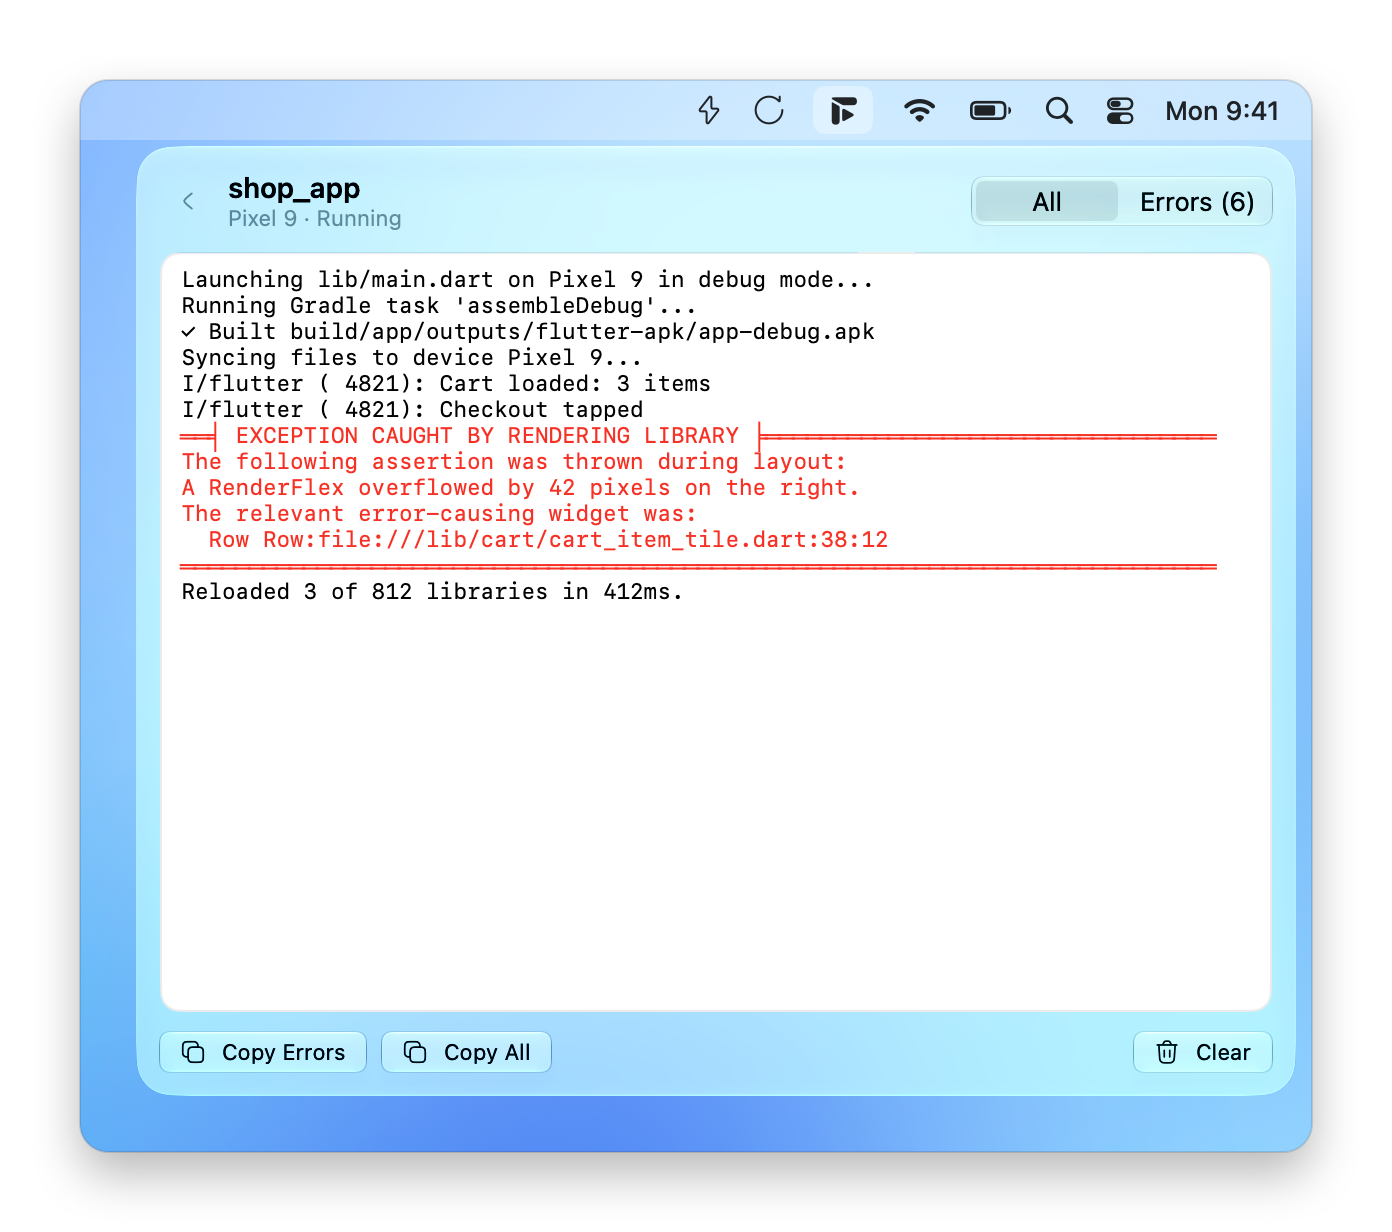
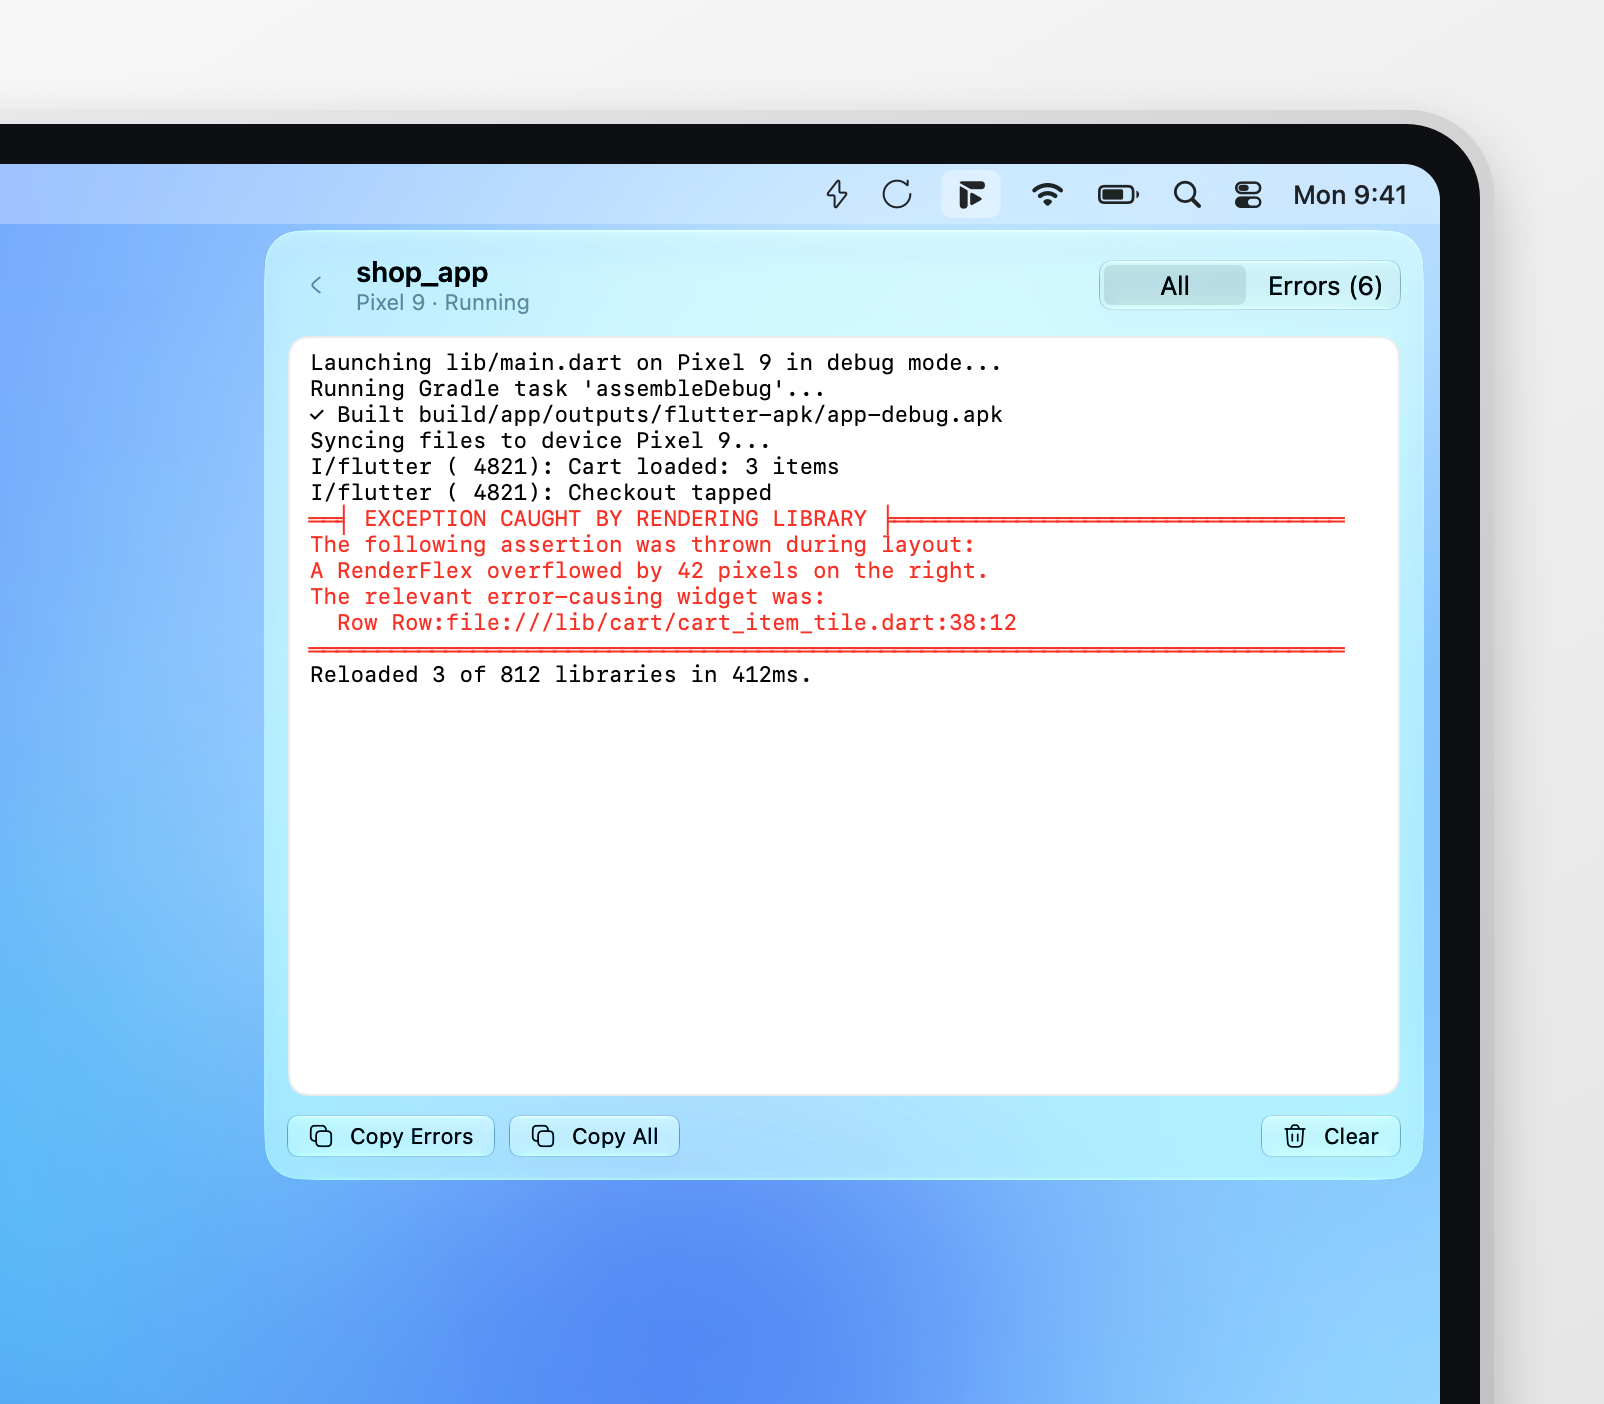
docs: show screenshots in a matching laptop corner mockup

diff --git a/scripts/frame-screenshot.swift b/scripts/frame-screenshot.swift
@@ -1,40 +1,61 @@
-// Turns a raw capture into a floating "screen": rounded corners, hairline border, soft drop shadow,
-// on a transparent canvas.   swift scripts/frame-screenshot.swift in.png out.png
+// Places a capture in the top-right corner of a laptop: light studio background, aluminium lid edge,
+// black bezel, then the screen. The screen runs off the left and bottom edges, like a cropped product
+// shot.   swift scripts/frame-screenshot.swift in.png out.png
 import AppKit
 
 let args = CommandLine.arguments
 let src = NSImage(contentsOfFile: args[1])!
 let rep = src.representations.first!
-let w = CGFloat(rep.pixelsWide), h = CGFloat(rep.pixelsHigh)
-let pad: CGFloat = 80, radius: CGFloat = 28
-let canvas = NSSize(width: w + pad * 2, height: h + pad * 2)
+let sw = CGFloat(rep.pixelsWide), sh = CGFloat(rep.pixelsHigh)
+
+let studio: CGFloat = 110      // background visible above and right of the lid
+let rim: CGFloat = 14          // aluminium edge
+let bezel: CGFloat = 40        // black glass around the screen
+let canvas = NSSize(width: sw + bezel + rim + studio, height: sh + bezel + rim + studio)
 
 let out = NSBitmapImageRep(bitmapDataPlanes: nil, pixelsWide: Int(canvas.width), pixelsHigh: Int(canvas.height),
                            bitsPerSample: 8, samplesPerPixel: 4, hasAlpha: true, isPlanar: false,
                            colorSpaceName: .deviceRGB, bytesPerRow: 0, bitsPerPixel: 0)!
 NSGraphicsContext.saveGraphicsState()
 NSGraphicsContext.current = NSGraphicsContext(bitmapImageRep: out)
-let screen = NSRect(x: pad, y: pad, width: w, height: h)
-let shape = NSBezierPath(roundedRect: screen, xRadius: radius, yRadius: radius)
+let all = NSRect(origin: .zero, size: canvas)
 
+// Studio background.
+NSGradient(colors: [NSColor(white: 0.97, alpha: 1), NSColor(white: 0.90, alpha: 1)])!.draw(in: all, angle: -60)
+
+// Shapes extend past the left and bottom edges so only the top-right corner shows.
+func corner(inset: CGFloat, radius: CGFloat) -> NSBezierPath {
+    let r = NSRect(x: -400, y: -400, width: canvas.width - studio - inset + 400, height: canvas.height - studio - inset + 400)
+    return NSBezierPath(roundedRect: r, xRadius: radius, yRadius: radius)
+}
+
+// Lid with a soft shadow, a light aluminium edge and a thin highlight.
+let lid = corner(inset: 0, radius: 86)
 let shadow = NSShadow()
-shadow.shadowColor = NSColor.black.withAlphaComponent(0.28)
-shadow.shadowBlurRadius = 50
-shadow.shadowOffset = NSSize(width: 0, height: -22)
+shadow.shadowColor = NSColor.black.withAlphaComponent(0.22)
+shadow.shadowBlurRadius = 60
+shadow.shadowOffset = NSSize(width: 0, height: -24)
 NSGraphicsContext.saveGraphicsState()
 shadow.set()
-NSColor.white.setFill()
-shape.fill()
+NSColor(white: 0.80, alpha: 1).setFill()
+lid.fill()
 NSGraphicsContext.restoreGraphicsState()
+NSGradient(colors: [NSColor(white: 0.93, alpha: 1), NSColor(white: 0.74, alpha: 1)])!.draw(in: lid, angle: -45)
 
+// Bezel.
+let glass = corner(inset: rim, radius: 74)
+NSColor(calibratedRed: 0.05, green: 0.05, blue: 0.06, alpha: 1).setFill()
+glass.fill()
+
+// Screen.
+let screenRect = NSRect(x: canvas.width - studio - rim - bezel - sw, y: canvas.height - studio - rim - bezel - sh,
+                        width: sw, height: sh)
+let screenShape = NSBezierPath(roundedRect: NSRect(x: screenRect.minX - 400, y: screenRect.minY - 400,
+                                                   width: sw + 400, height: sh + 400), xRadius: 36, yRadius: 36)
 NSGraphicsContext.saveGraphicsState()
-shape.addClip()
-src.draw(in: screen, from: .zero, operation: .copy, fraction: 1)
+screenShape.addClip()
+src.draw(in: screenRect, from: .zero, operation: .copy, fraction: 1)
 NSGraphicsContext.restoreGraphicsState()
-
-NSColor.black.withAlphaComponent(0.12).setStroke()
-shape.lineWidth = 2
-shape.stroke()
 NSGraphicsContext.restoreGraphicsState()
 
 try! out.representation(using: .png, properties: [:])!.write(to: URL(filePath: args[2]))

diff --git a/Sources/Flaran/Showcase.swift b/Sources/Flaran/Showcase.swift
@@ -124,7 +124,7 @@ import SwiftUI
 
     /// A borderless window with a soft wallpaper and a minimal menu bar, just under the panel's level.
     static func backdrop(onMarkFrame: @escaping (NSRect) -> Void) -> NSWindow {
-        let size = NSSize(width: 980, height: 620)
+        let size = NSSize(width: 980, height: 660)
         let screen = NSScreen.main!.visibleFrame
         let window = NSWindow(contentRect: NSRect(x: screen.midX - size.width / 2, y: screen.midY - size.height / 2,
                                                   width: size.width, height: size.height),
@@ -140,15 +140,15 @@ import SwiftUI
         return window
     }
 
-    /// The capture hugs the panel: the menu bar from the reload/restart icons rightwards, down to just
-    /// below the panel. `screencapture -R` takes x,y,w,h in points from the top-left of the main display.
+    /// Every scene captures the same top-right 720×620 pt of the backdrop, so the images line up
+    /// (the panel always hangs from the same icon). `screencapture -R` takes x,y,w,h in points from the
+    /// top-left of the main display.
     static func writeRect(of window: NSWindow, panel: NSRect, mark: NSRect) {
         guard let path = ProcessInfo.processInfo.environment["FLARAN_SHOWCASE_RECT"],
               let screenHeight = NSScreen.screens.first?.frame.height else { return }
-        let w = window.frame, margin: CGFloat = 28
-        let minX = max(w.minX, min(panel.minX, mark.minX - 90) - margin)   // 90 pt covers the two buttons left of the mark
-        let minY = max(w.minY, panel.minY - margin)
-        let f = NSRect(x: minX, y: minY, width: w.maxX - minX, height: w.maxY - minY)
+        _ = (panel, mark)
+        let w = window.frame
+        let f = NSRect(x: w.maxX - 720, y: w.maxY - 620, width: 720, height: 620)
         let rect = "\(Int(f.minX)),\(Int(screenHeight - f.maxY)),\(Int(f.width)),\(Int(f.height))"
         try? rect.write(toFile: path, atomically: true, encoding: .utf8)
     }

diff --git a/README.md b/README.md
@@ -15,11 +15,9 @@ Flaran keeps you in the flow. Start your app from the menu bar, then reload or r
 ## A quick look
 
 <p align="center">
-  <img src="assets/screenshots/home.png" width="45%" alt="Flaran's panel with two running apps">
-  <img src="assets/screenshots/devices.png" width="45%" alt="Picking a device">
-</p>
-<p align="center">
-  <img src="assets/screenshots/logs.png" width="66%" alt="Logs with an exception highlighted">
+  <img src="assets/screenshots/home.png" width="32%" alt="Flaran's panel with two running apps">
+  <img src="assets/screenshots/devices.png" width="32%" alt="Picking a device">
+  <img src="assets/screenshots/logs.png" width="32%" alt="Logs with an exception highlighted">
 </p>
 
 ## What it does
